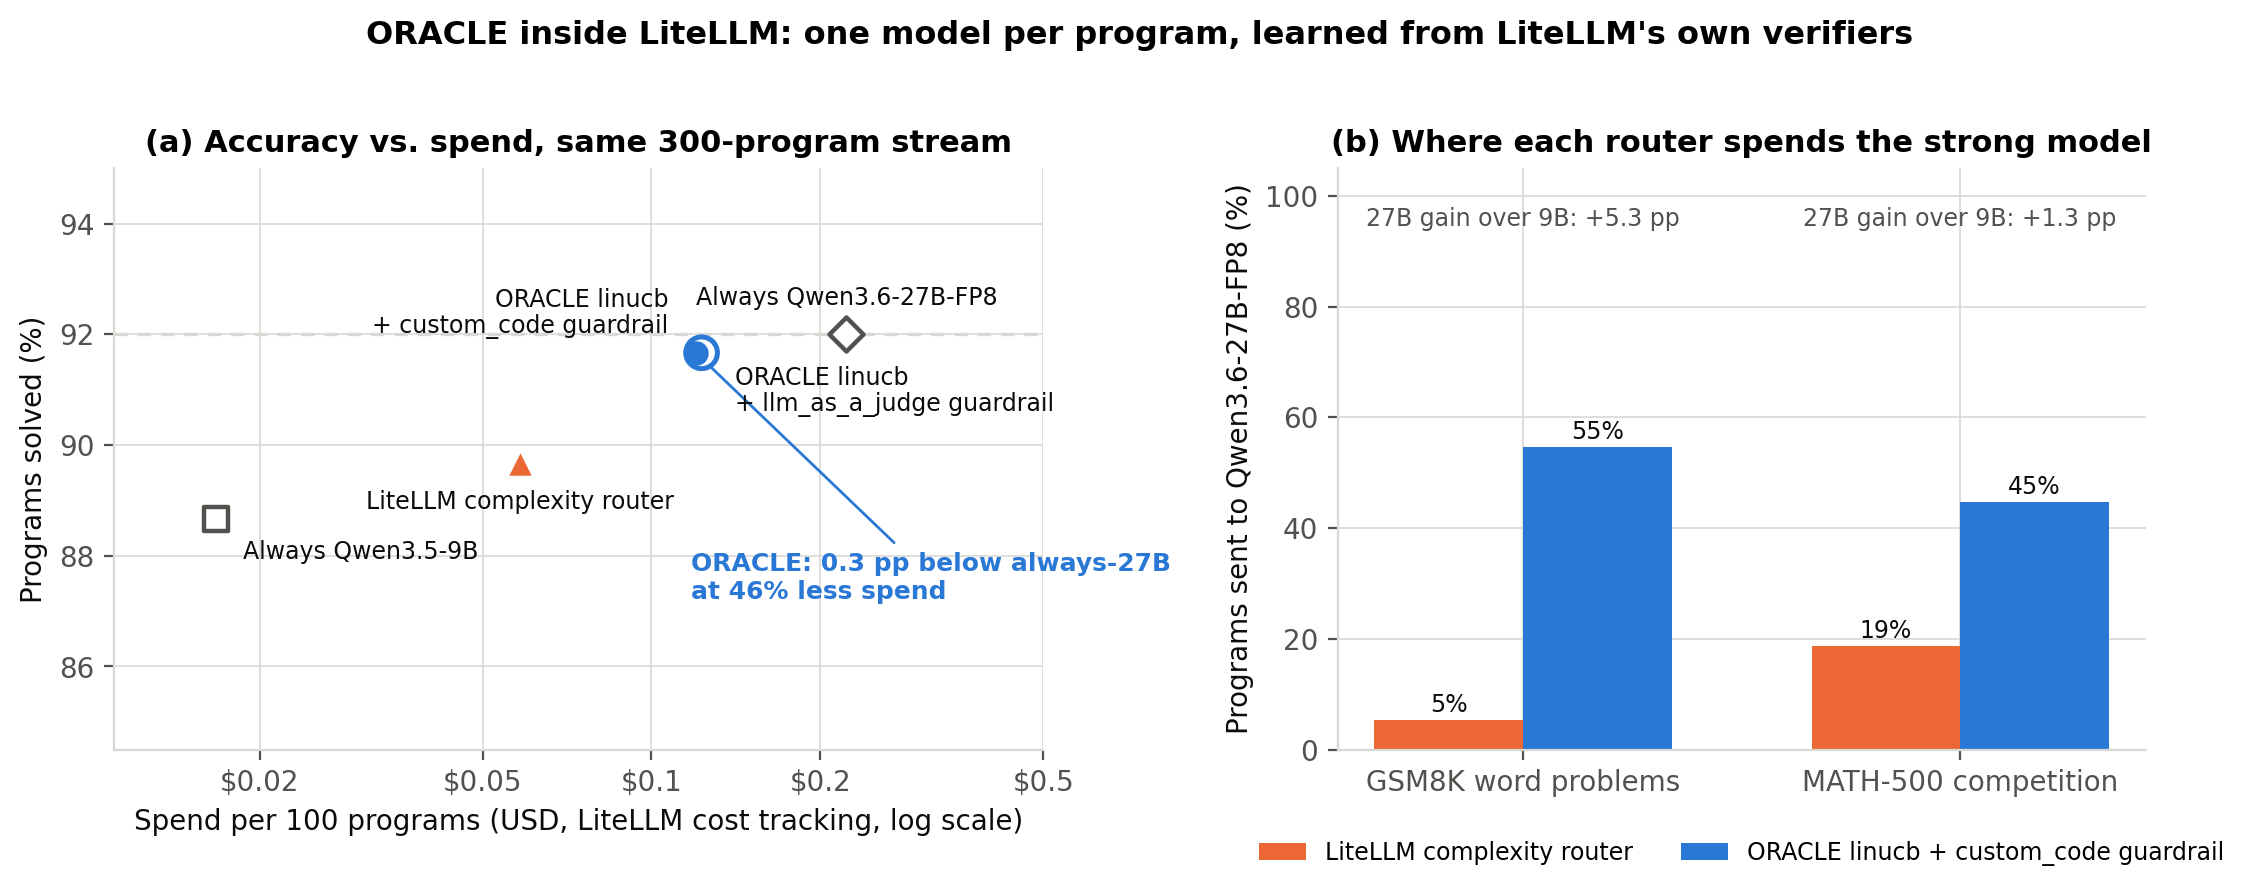
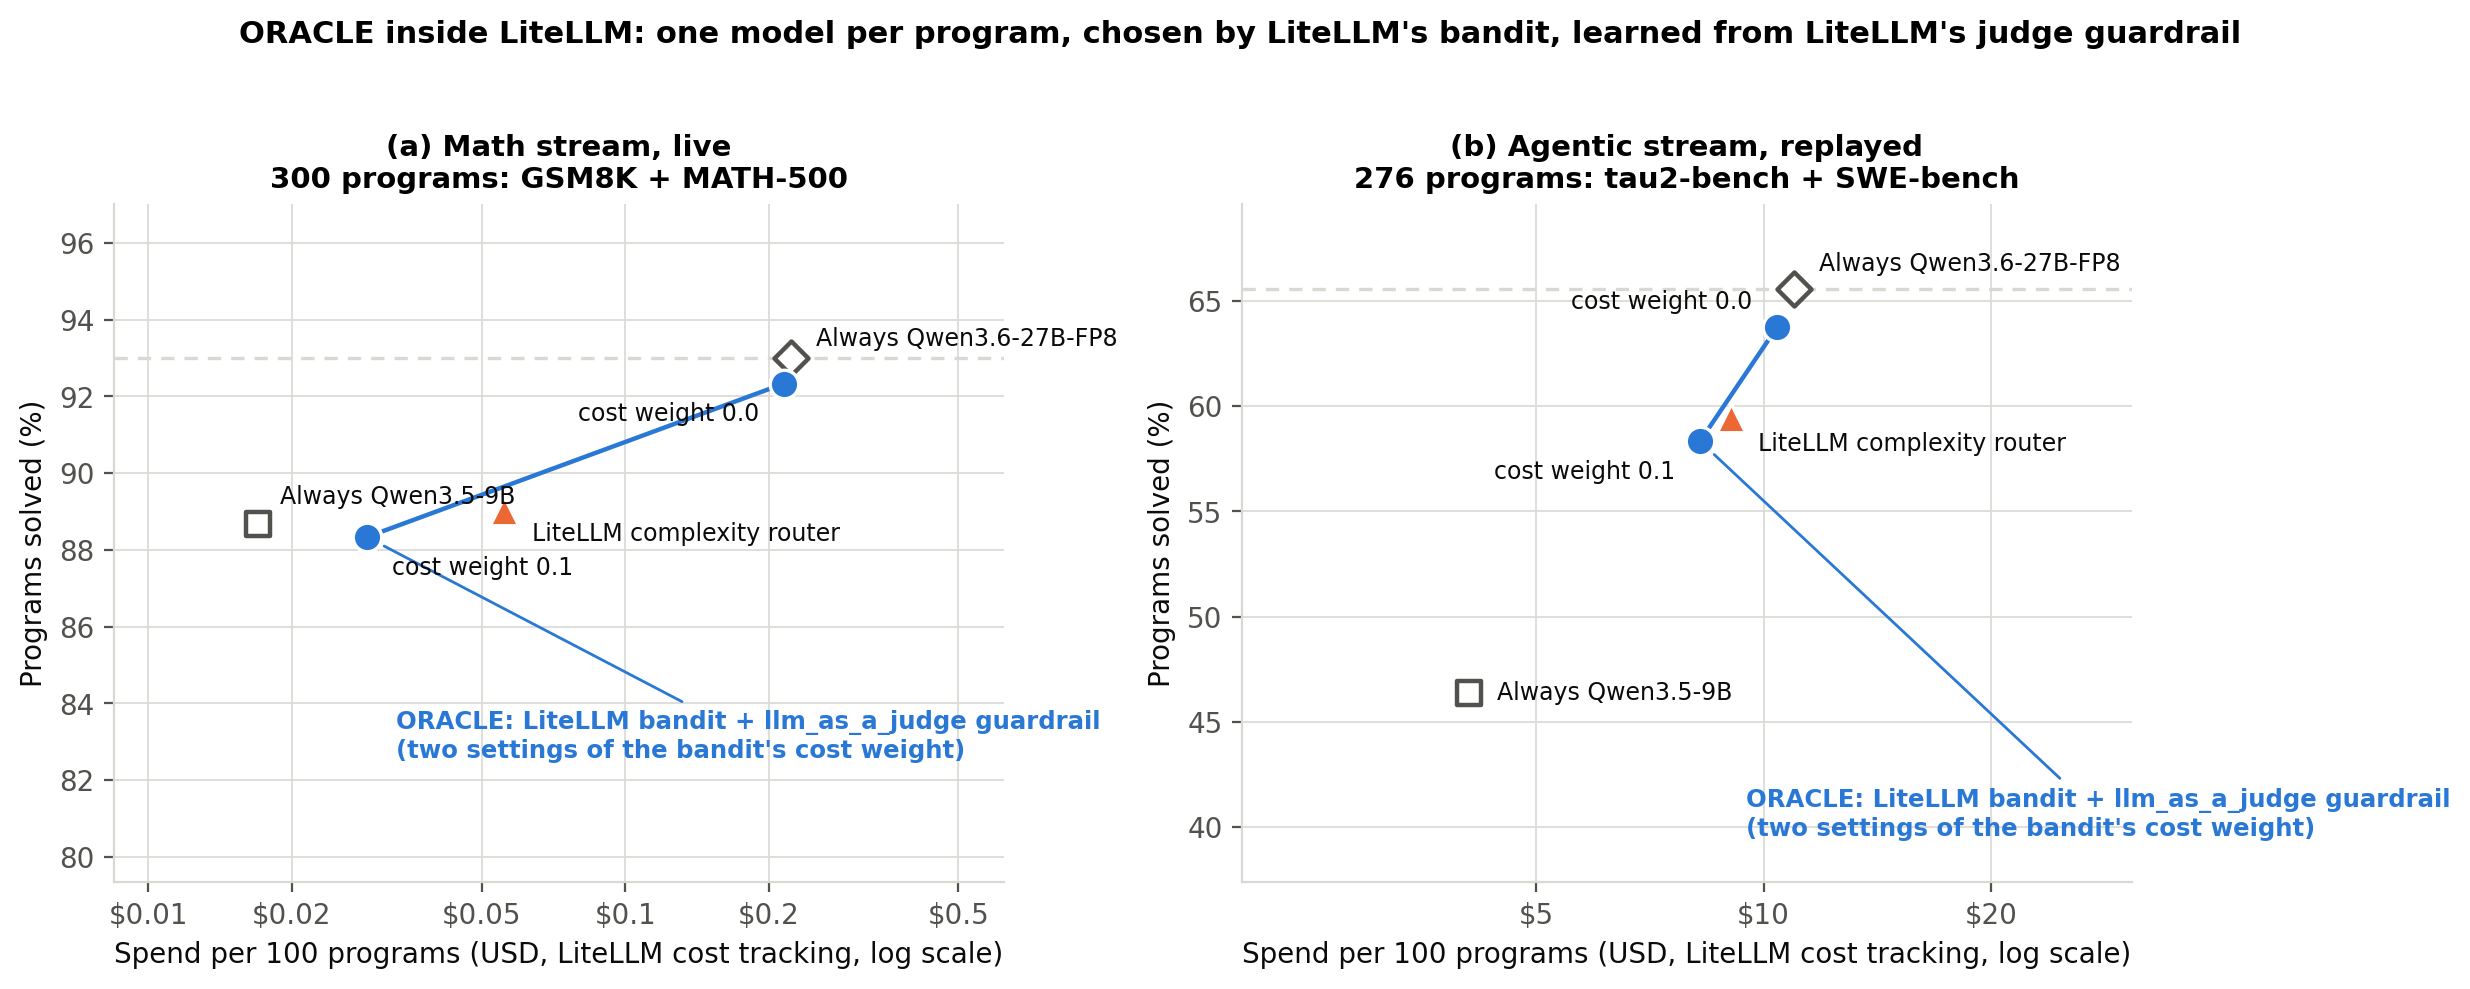
docs: update LiteLLM proof-of-concept figure (bandit + judge guardrail, two streams)

diff --git a/docs/integrations.md b/docs/integrations.md
@@ -42,10 +42,12 @@ front of it instead (same behaviour, plus the dashboard).
 
 ## LiteLLM
 
-ORACLE's router is also proposed upstream as a LiteLLM strategy (`auto_router/oracle_router`), where
-any LiteLLM strategy router can be the decision maker and any LiteLLM guardrail the verifier. On a
-300-program stream of GSM8K and MATH-500 tasks over Qwen3.6-27B-FP8 and Qwen3.5-9B it matched the
-always-27B accuracy within 0.3 points at 46% less spend:
+ORACLE's router is also proposed upstream as a LiteLLM strategy (`auto_router/oracle_router`): the
+decision maker is LiteLLM's own adaptive-router bandit (or any LiteLLM strategy router through
+`pre_routing`) and the verifier is any LiteLLM guardrail, such as `llm_as_a_judge`. On a live math
+stream (GSM8K + MATH-500) and a replayed agentic stream (tau2-bench + SWE-bench) over
+Qwen3.6-27B-FP8 and Qwen3.5-9B, the bandit's cost weight traces the accuracy/spend frontier between
+the two models, with LiteLLM's judge as the only feedback:
 
 ![ORACLE inside LiteLLM](litellm_poc.png)
 
